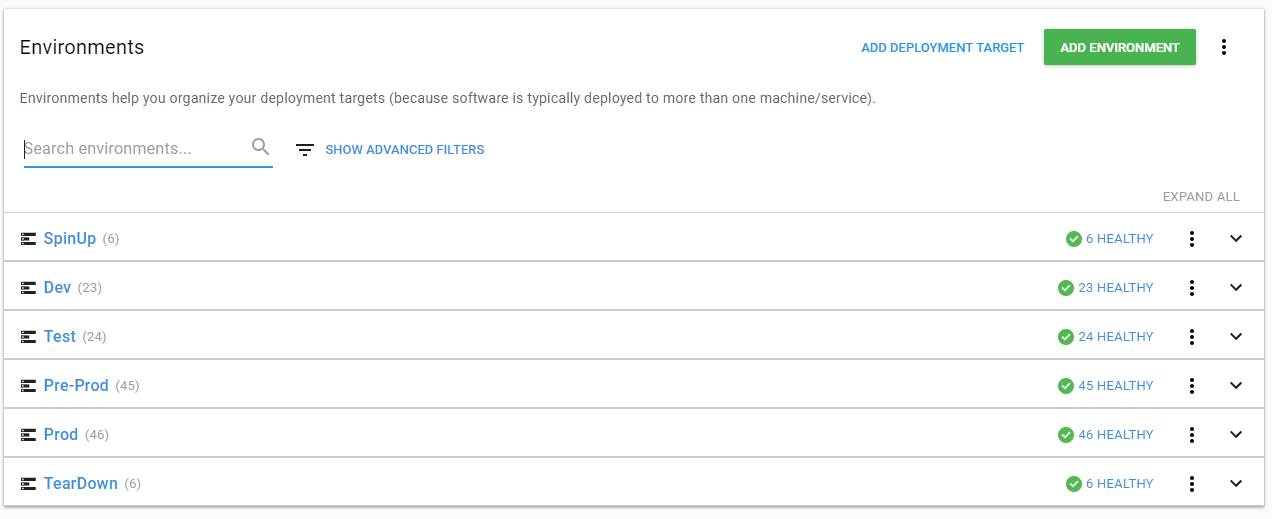
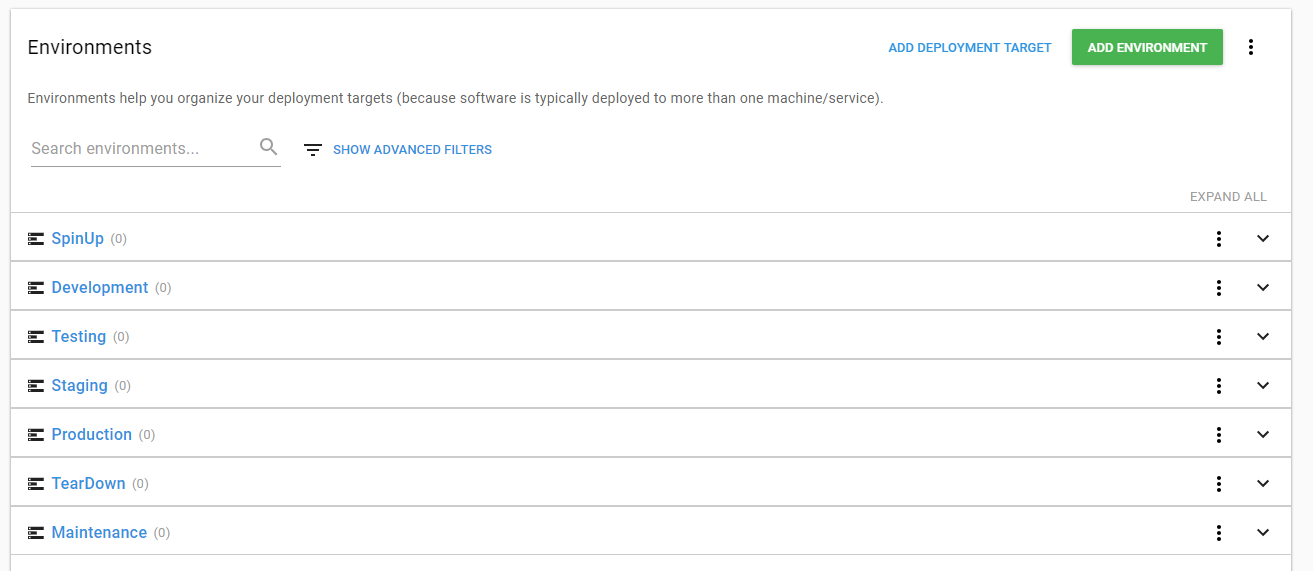
Reformatting based on the new assumption we are helping set up a fresh Octopus Deploy instance to scale.

diff --git a/manuscript/Chapter001.md b/manuscript/Chapter001.md
@@ -1,60 +1,111 @@
-# Chapter 1: Roles, Deployment Targets, and Environments Oh My
+# Chapter 1: Environments, Lifecycles and Retention Policies Oh My!
 
-Let's start with the very, very basics, modeling your infrastructure and environments.  We wanted to start here first because how you configure your environments, machines and roles sets the tone for everything else.  We feel it is so important to get this right that we wanted to do this first and get it out of the way.
+An interesting fact about artists is they will create what is known as a "study."  This is a sample work to try out new techniques or colors.  The size of the work is much smaller, perhaps 8"x10" compared to the final piece which could be 8'x10'.  They have no intention of selling them (though some of them do if the piece is successful enough).  The reason we bring this is up is because that is how we view a proof of concept with Octopus Deploy.  Great to learn how Octopus Deploy works and get a deployment working, but a new fresh install should be done to ensure from the beginning you have configured everything properly.
 
-## Deployment Targets  
-
-This is where you are deploying your code.  This could be a Windows machine, a Linux machine, an Azure web application, an offline drop or a namespace in a Kubernetes cluster.  The list of deployment targets is always growing, as soon as we list them out that list will be out of date!  This is where you install the tentacle to handle the deployments.  
+If you have an existing instance of Octopus Deploy being used to deploy to production you have a few options.  You can create a new space, which creates essentially a fresh instance of Octopus Deploy, you can stand up a new instance, or you could create new environments and lifecycles and move existing projects over to the new workflow.  It really depends on your requirements.  
 
 ## Environments
 
-Environments are a group of deployment targets.  Some common environment names people tend to use are Dev, Test, Staging and Production.  Machines in the Dev environment are used by developers to test their code.  The expected uptime for these machines is rather low due to testing and deployments.  Whereas machines in the production environment are used by customers and are expected to be up 99.999999999999% (or some unrealistic number) of the time.  In our previous jobs we could always tell when a production machine went down because it felt like every alert went off all at once.  
+Environments are the backbone of your deployment pipeline.  It is what you move your code through.  Before you configure your machines or your projects or your lifecycles you need to configure your environments first.  
 
-We recommend configuring your environments to match your company’s terminology.  But keep it general.  Think how you want to phrase it during a conversation with a non-technical person.   "I’m pushing some code up to dev" or "I’m deploying my app to production" makes a lot more sense than "I’m pushing to Dev Omaha 45."  What does Omaha mean?  The data center?  Where did 45 come from?  A good indication your environments are modelled correctly is you can explain it in a few quick sentences.  If it takes you longer than a few seconds to explain your environments then that is an indication you need to make some changes.
+It seems every place we have worked, and the vast majority of the companies we talk to, have the same four environments, Dev, Test (or QA), Staging (or Pre-Production), and Production.  Which makes sense.  Dev is for developers to experiment on, it is very much in flux, and it is expected to go up and down quite often.  Test is used by quality assurance to write their tests against or manually test.  Staging is used as a final "sanity check" prior to production.  Production...is well production, it is what users connect to.  
 
-We recommend keeping the list of environments under a dozen.  For our personal Octopus instances our environments are Dev, Test, Pre-Prod, Production, SpinUp and SpinDown.  That seems to cover 99% of our possible scenarios.
+When designing Octopus Deploy we didn't want to force people to use pre-defined environments.  Some companies only have three environments, while others have much more.  Not everyone uses the same naming for their environments.  One person's test is another person's QA.  It is important to us to let our customers define their environments using their own naming conventions.  
+
+That flexibility ends up being a double edged sword.  A lot of the customers we work with have machines in multiple data centers.  The temptation is to name your environment "Production [Data Center]," or "Production Omaha." This is done because these particular customers do not want to deploy to all data centers at the same time.  Or they want to know what version of code is in each data center.  This does not scale very well.  Every time you add a new data center you will need to adjust a number of different things, such as your life cycles, retention policies, channels, and so on.  
+
+On top of that, a number of our customers provide SaaS solutions to their customers.  Each customer gets their own set of machines and other resources.  Again the temptation is there to configure a unique set of environments for each customer "Dev [Customer Name]," "Staging [Customer Name]," and "Production [Customer Name]."  This will work for the first dozen or so customers but again it doesn't scale very well. 
+
+In this section we will walk through our recommendations for configuring your environments to better prepare you to scale up and out your Octopus Deploy instance as you add more projects.  We will also walk through a couple of common scenarios we have seen and how to work through them.
+
+### Environments Configuration
+
+We recommend configuring your environments to match your company’s terminology.  But keep it general.  Think how you want to phrase it during a conversation with a non-technical person.   "I’m pushing some code up to dev" or "I’m deploying my app to production" makes a lot more sense than "I’m pushing to Dev Omaha 45."  What does Omaha mean?  The data center?  Where did 45 come from?  
+
+> <img src="images/professoroctopus.png" style="float: left;"> A good indication your environments are modelled correctly is you can explain it in a few quick sentences.  If it takes you longer than a few seconds to explain your environments then that is an indication you need to make some changes.  
+
+Keep the list of environments under a dozen or so.  Have the standard four or five environments, such as Dev, Test, Staging and Production.  Also add in SpinUp, TearDown and Maintenance.  Those additional environments will help cover you when it is time to build up servers, tear down applications or if you want to use Octopus to perform some scheduled maintenance tasks like taking a backup of logs in production.  Keeping the number of environments low helps with configuring life cycles, channels, security, and so on.  They also keep your dashboard easy to follow.  When we encounter customers with hundreds of environments the number one complaint we hear is "this isn't scaling all that well" or "our dashboard seems to scroll horizontally forever."
 
 ![](images/chapter001-environmentlist.png)
 
-Keeping the number of environments low helps with configuring life cycles, channels, security, and so on.  They also keep your dashboard easy to follow.  When we encounter customers with hundreds of environments the number one complaint we hear is "this isn't scaling all that well" or "our dashboard seems to scroll horizontally forever."
+Don't worry about the order of the environments or adding in machines just yet.  That will come a bit later.  For now we just want to get our environments created.  
 
-**Octo Horror**: A lot of the customers we work with have machines in multiple data centers.  The temptation is to name your environment "Production [Data Center]," or "Production Omaha." This is done because these particular customers do not want to deploy to all data centers at the same time.  Or they want to know what version of code is in each data center.  This does not scale very well.  Every time you add a new data center you will need to adjust a number of different things, such as your life cycles, retention policies, channels, and so on.  A much better solution to this is using our Multi-Tenancy while still keeping your environment numbers low.  We will be covering some basic multi-tenancy scenarios in later chapters of this book.  
+### Multiple Data Center
+
+In the world of the Azure, AWS, Google Cloud and others to want to be able to deploy to multiple data centers.  In some scenarios the software needs to be deployed in specific intervals, first to a data center in Illinois and then to one in Texas.  The temptation is there to just create more environments called "Environment - [Data Center]."  But that leads to a few issues in scalability as well as maintainability.  
+
+A common scenario we have seen is customers deploy to an on-premise data center for dev, test and staging, but the code is hosted in data centers in Illinois and Texas.  Before pushing to production, they like to run some sanity checks in a staging environment in Illinois and Texas.  If you did environment per data center that would end up being seven environments.  When in reality you only want four.  
 
 ![](images/chapter001-multitenancyenvironments.png)
 
-**Octo Horror**: A number of our customers provide SaaS solutions to their customers.  Each customer gets their own set of machines and other resources.  Again the temptation is there to configure a unique set of environments for each customer "Dev [Customer Name]," "Staging [Customer Name]," and "Production [Customer Name]."  This will work for the first dozen or so customers but again it doesn't scale very well.  The multi-tenancy feature in Octopus will address this and a whole host of other scenarios.
+Because we don't have any targets or projects setup at this particular point in time, this is rather easy to accomplish.  For now, we will just add two new tenants to Octopus Deploy.  This is accomplished by clicking on the tenant link at the top of the screen and then clicking add tenant in the top right corner.
 
-Finally, it is important to note, a single deployment target can be tied to more than one environment.  Most of our customers don’t do this, but the functionality is there.  This is useful when you need to share a machine between dev and test or staging and production.    
+![](images/chapter001-datacentertenants.png)
 
-![](images/chapter001-singletarget-multipleroles.png)
+Don't worry, we will be coming back to them in a later chapter when we start setting up our first multiple data centers project.  Just know that they are there when you need them.
 
-## Roles
+> <img src="images/professoroctopus.png" style="float: left;"> Adding images to your tenants makes them easier to find on the tenant screen.  You can accomplish this by clicking on the tenant and selecting settings link on the left.  On that screen you can upload an image for a tenant.
 
-Roles are tags assigned to a deployment target.  A deployment target can have 1 to N number of roles.  Because they are tags, you can get as generic or as specific as you want with the role.  The role assigned to the machine is how Octopus Deploy knows to deploy to it.
+### Multiple Customers
 
-For example, a machine has the role of "OctoStudy-DB."  This indicates that this machine is used to deploy database changes for the application "OctoStudy."
+In the same vein of deploying the same project to multiple data centers, a lot of our customers want to deploy the same project to multiple clients.  In a SaaS world we have seen this accomplished one of two ways, make the code responsible for handling the multi-tenancy.  A user logs and the code determines which settings (connection string, name, etc) to load.  For that scenario, the multi-tenancy feature in Octopus Deploy is not needed.
 
-![](images/chapter001-machine-with-specific-roles.png)
+The other way we've seen multi-tenancy accomplished is by giving each client their own set of resources, such as websites, or web applications and a database.  In a lot of cases, the client might need a way to test, so they would need their own testing or staging set of resources as well.  Again the temptation is there to configure a unique set of environments for each customer "Dev [Customer Name]," "Staging [Customer Name]," and "Production [Customer Name]."  This will work for the first dozen or so customers but again it doesn't scale very well.
 
-In the OctoStudy project, when I want to deploy database changes I assign those steps to the role "OctoStudy-DB."
+Imagine if we had five clients, an internal testing customer, Coca-Cola, Ford, Nike and Starbucks.  The internal customer deploys to all the environments, dev, test, staging and prod.  Coca-Cola and Nike have resources in test, staging and production while Ford and Starbucks only have resources in staging and production.  If we did an environment per tenant we would end up with 14 environments.  And that is just for five customers!
 
-![](images/chapter001-using-specific-machine-roles.png)
+This is where the multi-tenancy feature really shines for our customers.  It allows them to keep the number of environments low while at the same time have the ability to create a unique workflow per client.
 
+![](images/chapter001-multitenantapplication.png)
 
-**Octo Horror**: We have seen instances where customers will assign very generic roles such as "IIS-Server" or "DB-Server."  They then set their project steps to deploy to "IIS-Server" because all of the web applications are hosted on a single IIS Server.  Just like having an environment per data center, this does not scale well.  If one of the applications needs to be moved to another server then a lot of steps in the project need to change.  
+Fow now we are just going to create those five customers we talked about in this example, Internal, Coca-Cola, Ford, Nike and Starbucks.
 
-Our recommendation for roles is to create both generic roles and specific roles.  Going back to the previous deployment machine for OctoStudy.  A good set of roles for that machine would be "DB-Jumpbox", "OctoStudy-DB" and "OctoStudy."  
+![](images/chapter001-alltenants.png)
 
-![](images/chapter001-machine-with-multiple-roles.png)
+## Lifecycles
 
-"OctoStudy-DB" is used in the project process.
+Now that we have our environments set up (along with our tenants) it is time to define some lifecycles.  A lifecycle is how your code works its way through the variou environments.  It is what tells Octopus Deploy to first deploy to dev, then to test, then to staging, then to production.  
 
-![](images/chapter001-using-specific-machine-roles.png)
+In the previous section we defined seven environments, Development, Testing, Staging, Production, SpinUp, TearDown and Maintenance.  
 
-While the other two roles are used for grouping and organization.  When set, you can now see all the machines used for "OctoStudy" or for "DB-JumpBox" by using the advanced filters.
+![](images/chapter001-environmentlist.png)
 
-![](images/chapter001-searching-machines-used-by-application.png)
+For 90% of the applications we plan on deploying with Octopus Deploy, we only need Development, Testing, Staging and Production.  We need to adjust the default lifecycle to support that.  This is accomplished by going to library -> lifecycles, selecting the default lifecycle and adding in those four phases.
 
-Having a single machine be used for multiple applications is more than fine.  Just please be sure to include all the necessary roles so you are prepared in the future to move machines around.
+![](images/chapter001-defaultlifecycle.png) 
 
-![](images/chapter001-single-machine-multiple-applications-roles.png)
+### Default Lifecycle Retention Policy
+
+By default, Octopus Deploy will keep every release and every deployment until the end of time.  We do not want to delete anything without you knowing about it and you manually changing the setting.
+
+In reality...it doesn't make sense to keep every release and every deployment until the end of time.  In six months time do you really want to go back to that previous code?  Is it still useful?  Keeping all those releases is not good for performance either.  Octopus has to hold onto everything for that release, logs, packages, artifacts, snapshot of the process, everything.  That takes up space in your database and on your hard drives.
+
+That is where retention policies are used.  They dictate how long a release is kept on both the server and the tentacle.  Our recommendation is to set the default retention policy to keep five releases by default.
+
+![](images/chapter001-defaultretentionpolicy.png)
+
+You can override that retention policy for a specific environment.  Which is why for production we recommend increasing that limit to 10.  If you deploy once a week, this will keep 10 weeks worth of production deployments.  Which should cover you for quite a while.
+
+![](images/chapter001-retentionpolicies.png)
+
+> <img src="images/professoroctopus.png" style="float: left; padding-top: 15px;"> If this is your first time applying retention policies then start with a large number (say 600) and work down to your desired number.  Periodically Octopus will automatically apply retention policies.  This task blocks other deployments.  Starting with a large retention policy and going small will allow you to slowly remove releases without blocking deployments.
+
+### Emergency Bug Fix Lifecycle
+
+Emergencies happen.  A critical bug is found in production which must be fixed right away.  In times like that having to deploy to a Development and Testing environment and then Staging and finally Production could slow a lot of things down.  You need to follow your deployment process in times like these.  Trying to circumvent them and do something manually could end up biting you later down the line.  
+
+For this we recommend creating a emergency bug fix lifecycle.  This lifecycle will only have two phases, staging and production.  The retention policies will be the same, 5 for staging and 10 for production.  What this will do is allow you to configure your project to handle an emergency deployment.  You still need a place to test your changes, which is why staging was chosen.  
+
+![](images/chapter001-emergencybugfixlifecycle.png)
+
+### Maintenance and other Lifecycles
+
+You will notice that we haven't included the other three environments we created, SpinUp, TearDown and Maintenance.  There should be custom lifecycles for those environments.  For retention policies, limit them to 2 releases for all environments.
+
+![](images/chapter001-alllifecycles.png)
+
+> <img src="images/professoroctopus.png" style="float: left;"> The infrastructure as code lifecycle is useful for automating the adding of VMs and other infrastructure.  It has a way of throwing random errors, so the SpinUp phase is set as optional.  This will allow you to tear everything down when that occurs and start again.    
+
+## Conclusion
+
+In this chapter we walked through of how to set up the backbone of Octopus Deploy, the environments and lifecycles.  In addition we walked through how to configure retention policies to help keep your Octopus Deploy instance lean and mean.  In the next chapter we will walk through adding our first set of deployment targets for a single project.

diff --git a/manuscript/Chapter000.md b/manuscript/Chapter000.md
@@ -1,13 +1,15 @@
 # Introduction
 
-So...why a book?  We have a very well written documentation section.  We also have a nice blog.  A book is just so...old school.  Well, it all goes back to the question we were presented with when we proposed this idea to Paul and our marketing team.  Who is the target audience?  
+So...why a book?  We have a very well written documentation section.  We also have a nice blog.  A book is just so...old school.  We wanted to write a book because it is very easy to get lost in all the documentation, examples, and videos.  We wanted to put something together that when you're done reading it you will have a fully configured Octopus Deploy server ready to scale with your company.
+
+Everyone who works at Octopus Deploy likes to think our product is super easy to use and is very easy to set up.  In talking with our customers we have found that to be partially true.  Octopus Deploy is a complex product.  It offers a lot of functionality.  It was designed to help reinforce best deployment practices such as building artifacts once, using the same deployment process for each environment, or restricting access to production machines to name a few.  While at the same time offering users such as yourself the flexibility so Octopus Deploy can meet your companies needs.  But that flexibility is a double-edged sword.  
+
+All the authors of this book are solution architects at Octopus Deploy focused on customer success.  We meet with customers often to discuss what is working for them, what isn’t working for them and offer recommendations.  We have seen...some interesting configurations with Octopus Deploy.  In some cases, bad practices have been going on for so long that changing them takes quite a bit of effort.  That is what drove us to write this book.  We wanted to take all those lessons we have learned and share them with the community.  This way we can help them help themselves.
 
 Anytime you start learning something new you go through a series of steps.  First you start out learning the basics.  This is where you get immeressed in the nomenclature of the product and learn how it works.  Typically a proof of concept is created to see if it works for your basic needs.  After that you move onto a pilot project or a pilot group.  This is where you try to adopt in your day to day life.  Any short-cuts made during the proof of concept phase is removed and it slowly morphs into a working solution.  After that comes adoption, where everyone in the company starts using it.  This is where a bad configuration or two becomes a standard.  And if that bad configuration is allowed to stay a standard then changing it starts to take more and more time.  It goes from one week, to one month, to a year-long project.  
 
 Our UI team is always improving the onboarding process.  Our documentation has a great getting started guide.  But those are targeted at people who are just starting with Octopus Deploy and might be working on a proof of concept.  Rather than worry about that, the intended audience for this book are people who are in the middle of a pilot project using Octopus Deploy or are about to start expanding to the rest of the company.  Our goal of this book is to help you make better decisions on your configuration so Octopus Deploy can scale with your company.  That is not to say experts in Octopus Deploy won't gain anything from it.  
 
-Octopus Deploy is a complex product.  It offers a lot of functionality.  It was designed to help reinforce best deployment practices such as building artifacts once, using the same deployment process for each environment, or restricting access to production machines to name a few.  While at the same time offering users such as yourself the flexibility so Octopus Deploy can meet your companies needs.  But that flexibility is a double-edged sword.  
+In this book we are going to take a fresh install of Octopus Deploy and configure it to scale.  We are going to start at the very start, setting up your infrastructure and proceed on with configuring environments, lifecycles, retention policies, projects, security, peformance, and maintainability.  It is designed to be read from cover to cover or you can pick your favorite topic out and jump right to it.  We have a number of projects which we will be using in this book.  Some of them are applications which are deployed to a few IIS machines on-premise.  We have other applications which are multi-tenant.  And we have others which cover multiple data centers.  We aren't so full of ourselves to believe what we recommend will solve every possible scenario you run into in your day to day life.  Our goal is to provide you with recommendations which you can then adjust to meet your needs.
 
-All the authors of this book are solution architects at Octopus Deploy focused on customer success.  We meet with customers often to discuss what is working for them, what isn’t working for them and offer recommendations.  We have seen...some interesting configurations with Octopus Deploy.  In some cases, bad practices have been going on for so long that changing them takes quite a bit of effort.  That is what drove us to write this book.  We wanted to take all those lessons we have learned and share them with the community.  This way we can help them help themselves.
-
-In this book we are going to start at the very start, setting up your infrastructure and proceed on with configuring environments, lifecycles, retention policies, projects, security, peformance, and maintainability.  It is designed to be read from cover to cover or you can pick your favorite topic out and jump right to it.  
+Finally, this book does have a lot of overlap with our getting started guide in the UI as well as our on-boarding process.  With that said, we are going to assume you have some familarity with Octopus Deploy.  We assume you know what a tentacle is and you know how to add steps into your deployment process.  If none of those terms are familiar to you or if this is your first time using Octopus Deploy we recommend you read our getting started guide and create a Proof of Concept using our onboarding process.
